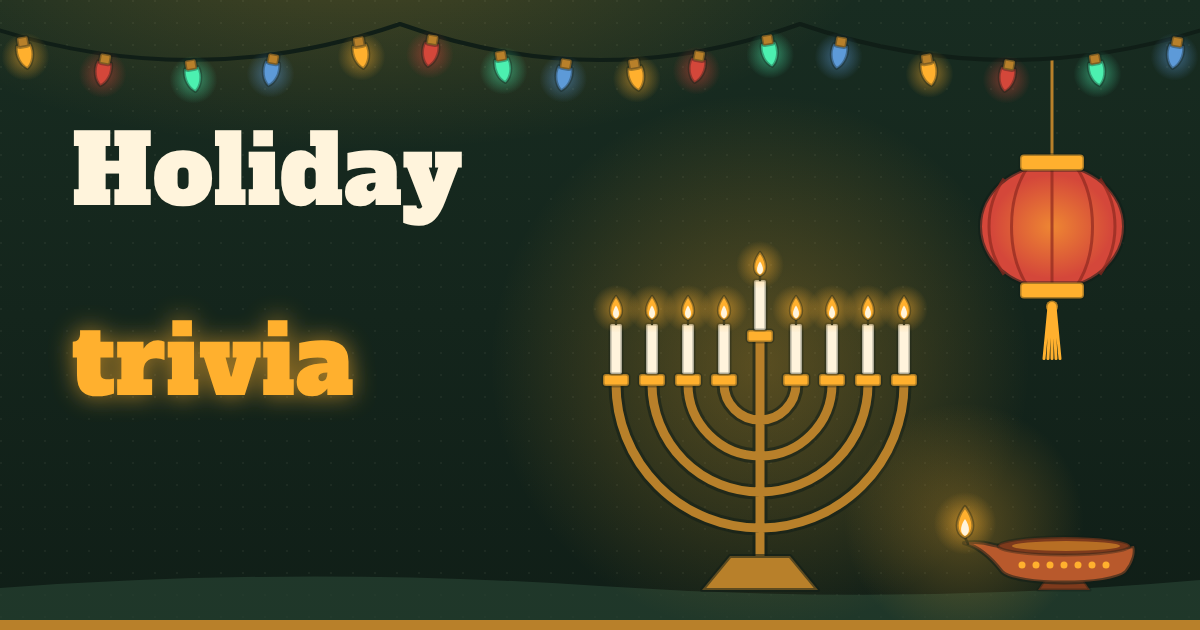
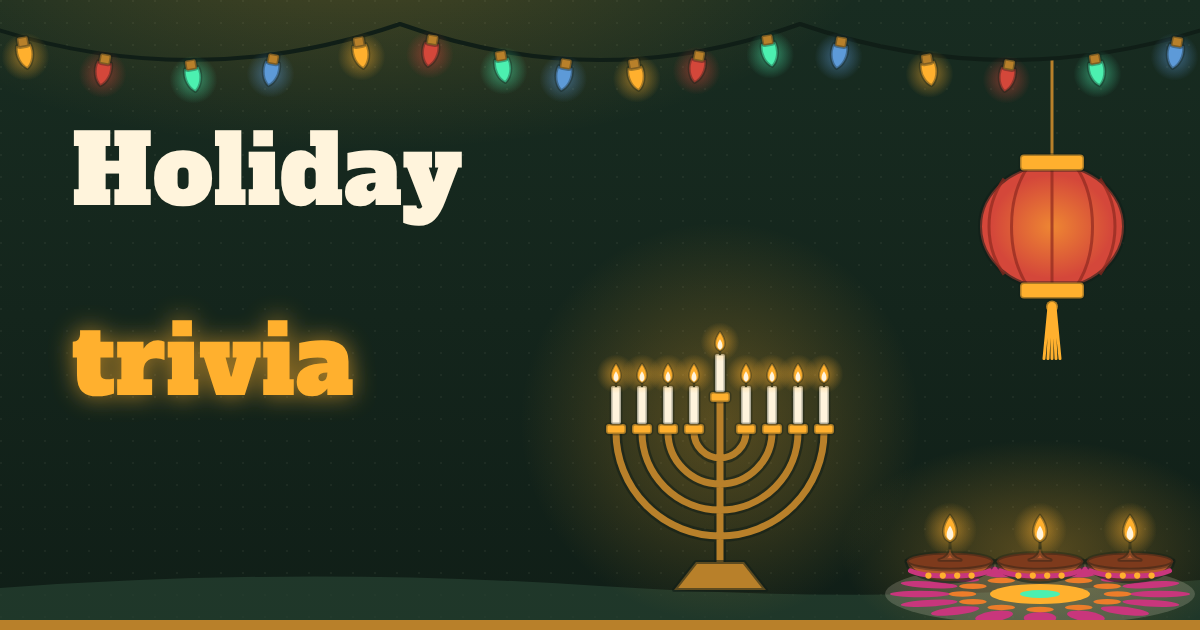
Holiday trivia picture: diyas on a rangoli, smaller menorah
Paul's review: the single clay lamp read as part of Hanukkah, and the
menorah dominated the picture. The diya becomes three painted diyas on a
rangoli, set apart from the menorah, and the menorah is about a quarter
smaller. The share picture is re-rendered from the same scene.

Claude-Session: https://claude.ai/code/session_01Rj3at1ZTZ2Hrw8opPLQ5A8

Changed region(s): [[0.4933, 0.3016, 1.0, 0.9952]]

diff --git a/src/content/quizzes/scenes/holiday-trivia.ts b/src/content/quizzes/scenes/holiday-trivia.ts
@@ -2,9 +2,10 @@ import type { AnimatedScene } from "./index";
 
 /**
  * Holiday trivia: a lit Hanukkah menorah (a hanukkiah: eight candles in a row
- * and the shamash, the helper candle, standing higher in the middle), a clay
- * diya oil lamp, a red paper lantern hanging from a string of lights across
- * the top, and a hop running through "trivia". The flames flicker, the lantern
+ * and the shamash, the helper candle, standing higher in the middle), a row of
+ * three painted diyas on a rangoli for Diwali, set apart from the menorah so
+ * they read as their own festival, a red paper lantern hanging from a string
+ * of lights across the top, and a hop running through "trivia". The flames flicker, the lantern
  * sways gently and the lights twinkle. No figures, no symbols beyond the lamps.
  *
  * Coordinates are in the 1200x630 viewBox. Each moving shape is drawn at its
@@ -15,7 +16,7 @@ import type { AnimatedScene } from "./index";
 
 const ROOT = ".quiz-scene-holiday-trivia";
 
-/** Where the menorah and the diya stand. */
+/** Where the menorah and the diyas stand. */
 const GROUND = 590;
 
 /** "Holiday trivia" in the display face at 96px: where each line starts, and where each letter of "trivia" starts, then where the word ends (measured in Chromium with src/fonts/alfa-slab-one). */
@@ -25,15 +26,15 @@ const LINE_2_Y = 395;
 const TRIVIA_ADVANCES = [0, 43.3, 93.9, 127.1, 189.6, 222.8, 281.9];
 
 /** The menorah: its middle, the height of the eight cups, how far apart the candles are, and how much higher the shamash's cup is. */
-const MENORAH_X = 760;
-const CUP_Y = 384;
-const SPACING = 36;
-const SHAMASH_RISE = 44;
-const CANDLE_H = 50;
+const MENORAH_X = 720;
+const CUP_Y = 432;
+const SPACING = 26;
+const SHAMASH_RISE = 32;
+const CANDLE_H = 38;
 
-/** The diya: the middle of its bowl on the ground, and the tip of its spout, where the wick burns. */
-const DIYA_X = 1064;
-const SPOUT: [number, number] = [-100, -47];
+/** The rangoli's middle on the ground, and where the three diyas stand on it. */
+const RANGOLI_X = 1040;
+const DIYAS_X = [950, 1040, 1130];
 
 /** The string of lights: where it is hooked up, and how low each swag hangs (the control point's y). */
 const HOOKS = [-20, 400, 800, 1220];
@@ -55,11 +56,13 @@ const PAINT = {
   "c-mint": "fill: var(--mint)",
   "c-deep": "fill: var(--stage-deep)",
   "c-panel": "fill: var(--stage-panel); fill-opacity: 0.7",
-  // Not site tokens: the lantern's red paper, the diya's fired clay, and the
-  // blue and red of the bulbs.
+  // Not site tokens: the lantern's red paper, the diyas' fired clay, the
+  // rangoli's magenta and orange, and the blue and red of the bulbs.
   "c-red": "fill: #d4473a",
   "c-clay": "fill: #b8592c",
   "c-clay-dark": "fill: #7d3a1c",
+  "c-magenta": "fill: #c8367c",
+  "c-orange": "fill: #ec7d2a",
   "c-blue": "fill: #5d9ad8",
 };
 type Paint = keyof typeof PAINT;
@@ -134,20 +137,20 @@ function menorah(): string {
       return `M ${MENORAH_X - r} ${CUP_Y} A ${r} ${r} 0 0 0 ${MENORAH_X + r} ${CUP_Y}`;
     })
     .join(" ");
-  const stem = `M ${MENORAH_X} ${CUP_Y - SHAMASH_RISE} L ${MENORAH_X} ${GROUND - 30}`;
+  const stem = `M ${MENORAH_X} ${CUP_Y - SHAMASH_RISE} L ${MENORAH_X} ${GROUND - 26}`;
   const cups = candleSpots()
-    .map(([x, y]) => `<rect x="${x - 13}" y="${y - 10}" width="26" height="12" rx="3" class="c-gold ink-soft"/>`)
+    .map(([x, y]) => `<rect x="${x - 10}" y="${y - 8}" width="20" height="10" rx="3" class="c-gold ink-soft"/>`)
     .join("");
   const candles = candleSpots()
     .map(
       ([x, y]) =>
-        `<rect x="${x - 6}" y="${y - 10 - CANDLE_H}" width="12" height="${CANDLE_H}" rx="2" class="candle c-fg ink-soft"/><path d="M ${x} ${y - 10 - CANDLE_H} L ${x} ${y - 16 - CANDLE_H}" class="wick"/>`,
+        `<rect x="${x - 5}" y="${y - 8 - CANDLE_H}" width="10" height="${CANDLE_H}" rx="2" class="candle c-fg ink-soft"/><path d="M ${x} ${y - 8 - CANDLE_H} L ${x} ${y - 13 - CANDLE_H}" class="wick"/>`,
     )
     .join("");
-  return `<circle cx="${MENORAH_X}" cy="${CUP_Y - 20}" r="270" fill="url(#hd-halo)"/>
+  return `<circle cx="${MENORAH_X}" cy="${CUP_Y - 10}" r="200" fill="url(#hd-halo)"/>
   <path d="${arms} ${stem}" class="metal-edge"/>
   <path d="${arms} ${stem}" class="metal"/>
-  <path d="M ${MENORAH_X - 58} ${GROUND} L ${MENORAH_X - 30} ${GROUND - 34} L ${MENORAH_X + 30} ${GROUND - 34} L ${MENORAH_X + 58} ${GROUND} Z" class="c-brass ink"/>
+  <path d="M ${MENORAH_X - 46} ${GROUND} L ${MENORAH_X - 24} ${GROUND - 28} L ${MENORAH_X + 24} ${GROUND - 28} L ${MENORAH_X + 46} ${GROUND} Z" class="c-brass ink"/>
   ${cups}
   ${candles}`;
 }
@@ -157,28 +160,58 @@ function menorahFlames(): string {
   return candleSpots()
     .map(
       ([x, y], i) =>
-        `<g transform="translate(${x} ${y - 14 - CANDLE_H})"><g class="flicker menorah-flame" style="--dur:${f(1.1 + ((i * 0.37) % 0.6))}s;--delay:${f((i * 0.23) % 1)}s">${flame(0.8)}</g></g>`,
+        `<g transform="translate(${x} ${y - 11 - CANDLE_H})"><g class="flicker menorah-flame" style="--dur:${f(1.1 + ((i * 0.37) % 0.6))}s;--delay:${f((i * 0.23) % 1)}s">${flame(0.65)}</g></g>`,
     )
     .join("");
 }
 
-/** The diya, without its flame: a clay bowl with a pinched spout, oil inside, a painted band and a little foot. */
-function diya(): string {
-  const dots = [-42, -28, -14, 0, 14, 28, 42].map((x) => `<circle cx="${x}" cy="-25" r="3.5" class="c-gold"/>`).join("");
-  return `<g transform="translate(${DIYA_X} ${GROUND})">
-    <circle cx="${SPOUT[0]}" cy="${SPOUT[1] - 20}" r="120" fill="url(#hd-halo)"/>
-    <path d="M -26 0 L -18 -12 L 18 -12 L 26 0 Z" class="c-clay-dark ink-soft"/>
-    <path d="M ${SPOUT[0]} ${SPOUT[1]} C -88 -44, -76 -36, -62 -18 C -48 -4, 48 -4, 62 -18 C 70 -28, 72 -38, 70 -44 C 30 -38, -40 -38, -70 -45 C -80 -48, -90 -49, ${SPOUT[0]} ${SPOUT[1]} Z" class="c-clay ink"/>
-    <ellipse cx="0" cy="-44" rx="66" ry="9" class="c-clay-dark ink-soft"/>
-    <ellipse cx="2" cy="-44" rx="54" ry="5" class="c-gold" opacity="0.45"/>
-    ${dots}
-    <path d="M ${SPOUT[0] + 4} ${SPOUT[1] + 1} L ${SPOUT[0] + 1} ${SPOUT[1] - 6}" class="wick"/>
+/**
+ * The rangoli: a ring of magenta petals, a ring of orange dots and a gold
+ * middle, drawn round and then flattened onto the ground.
+ */
+function rangoli(): string {
+  const petals = Array.from({ length: 16 }, (_, i) => {
+    const deg = i * 22.5;
+    return `<ellipse cx="0" cy="-96" rx="13" ry="24" transform="rotate(${deg})" class="c-magenta"/>`;
+  }).join("");
+  const dots = Array.from({ length: 12 }, (_, i) => {
+    const a = (i * 30 * Math.PI) / 180;
+    return `<circle cx="${f(Math.cos(a) * 62)}" cy="${f(Math.sin(a) * 62)}" r="11" class="c-orange"/>`;
+  }).join("");
+  return `<g transform="translate(${RANGOLI_X} ${GROUND + 4}) scale(1.25 0.25)">
+    <circle r="124" class="c-fg" opacity="0.18"/>
+    ${petals}${dots}
+    <circle r="40" class="c-gold"/>
+    <circle r="16" class="c-mint"/>
   </g>`;
 }
 
-/** The diya's flame, at the tip of its spout. */
-function diyaFlame(): string {
-  return `<g transform="translate(${DIYA_X + SPOUT[0] + 1} ${GROUND + SPOUT[1] - 5})"><g class="flicker diya-flame" style="--dur:1.4s;--delay:0.2s">${flame(1.05)}</g></g>`;
+/** One diya without its flame, standing at x: a clay bowl with its lip pinched up in front, oil inside, and a painted band. */
+function diya(x: number): string {
+  const dots = [-18, -6, 6, 18].map((dx) => `<circle cx="${dx}" cy="-12" r="2.6" class="c-gold"/>`).join("");
+  return `<g transform="translate(${x} ${GROUND}) scale(1.2)">
+    <path d="M -36 -24 C -32 -2, 32 -2, 36 -24 Z" class="c-clay ink"/>
+    <path d="M -33 -16 C -20 -10, 20 -10, 33 -16" class="paint"/>
+    ${dots}
+    <ellipse cx="0" cy="-24" rx="36" ry="7" class="c-clay-dark ink-soft"/>
+    <path d="M -9 -25 Q 0 -27 0 -36 Q 0 -27 9 -25 Z" class="c-clay ink-soft"/>
+    <path d="M 0 -35 L 0 -40" class="wick"/>
+  </g>`;
+}
+
+/** The diyas, on their rangoli, with the glow they cast. */
+function diyas(): string {
+  return `<ellipse cx="${RANGOLI_X}" cy="${GROUND - 40}" rx="200" ry="110" fill="url(#hd-halo)"/>
+  ${rangoli()}
+  ${DIYAS_X.map(diya).join("")}`;
+}
+
+/** The three diyas' flames, one at each lip. */
+function diyaFlames(): string {
+  return DIYAS_X.map(
+    (x, i) =>
+      `<g transform="translate(${x} ${GROUND - 48})"><g class="flicker diya-flame" style="--dur:${f(1.3 + i * 0.17)}s;--delay:${f(0.2 + i * 0.31)}s">${flame(0.9)}</g></g>`,
+  ).join("");
 }
 
 /** The red paper lantern on its cord, hanging from the string; it sways from the point where it hangs. */
@@ -213,7 +246,7 @@ function words(): string {
   ${letters.join("")}`;
 }
 
-/** The still layer: the room, the ground, the menorah, the diya and the glow. Nothing here moves. */
+/** The still layer: the room, the ground, the menorah, the diyas and the glow. Nothing here moves. */
 const back = `<defs>
   <linearGradient id="hd-sky" x1="0" y1="0" x2="0" y2="1">
     <stop offset="0" style="stop-color:var(--stage)"/>
@@ -239,7 +272,7 @@ const back = `<defs>
 <rect width="1200" height="630" fill="url(#hd-dots)"/>
 <path d="M 0 588 Q 300 566 600 586 T 1200 580 L 1200 630 L 0 630 Z" class="c-panel"/>
 ${menorah()}
-${diya()}
+${diyas()}
 ${triviaGlow()}
 <rect y="620" width="1200" height="10" class="c-brass"/>`;
 
@@ -259,7 +292,7 @@ const front = `<defs>
 ${lantern()}
 ${lights()}
 ${menorahFlames()}
-${diyaFlame()}
+${diyaFlames()}
 ${words()}`;
 
 const css = `
@@ -270,9 +303,10 @@ ${ROOT} .wire { fill: none; stroke: var(--stage-deep); stroke-width: 4; stroke-l
 ${ROOT} .cord { fill: none; stroke: var(--brass); stroke-width: 3; }
 ${ROOT} .rib { fill: none; stroke: #8f2a20; stroke-opacity: 0.7; stroke-width: 3; }
 ${ROOT} .tassel { fill: none; stroke: var(--gold); stroke-width: 3; stroke-linecap: round; }
+${ROOT} .paint { fill: none; stroke: #c8367c; stroke-width: 4; stroke-linecap: round; }
 ${ROOT} .wick { fill: none; stroke: var(--stage-deep); stroke-width: 2.5; stroke-linecap: round; }
-${ROOT} .metal { fill: none; stroke: var(--brass); stroke-width: 9; stroke-linecap: round; }
-${ROOT} .metal-edge { fill: none; stroke: var(--stage-deep); stroke-opacity: 0.55; stroke-width: 15; stroke-linecap: round; }
+${ROOT} .metal { fill: none; stroke: var(--brass); stroke-width: 7; stroke-linecap: round; }
+${ROOT} .metal-edge { fill: none; stroke: var(--stage-deep); stroke-opacity: 0.55; stroke-width: 12; stroke-linecap: round; }
 ${ROOT} .word { font-family: var(--font-display), "Rockwell Extra Bold", Georgia, serif; font-size: 96px; }
 
 ${ROOT} .twinkle { animation: hd-twinkle 2.8s ease-in-out calc(var(--start) + var(--delay)) infinite; }

diff --git a/e2e/quiz-holiday-trivia.spec.ts b/e2e/quiz-holiday-trivia.spec.ts
@@ -266,11 +266,11 @@ test.describe("/quizzes/holiday-trivia, the moving picture", () => {
     expect(await hero.evaluate((el) => getComputedStyle(el).aspectRatio)).toBe("1200 / 630");
 
     // 16 bulbs on the string across the top, nine menorah flames and the
-    // diya's, the lantern, and 6 letters.
+    // three diyas', the lantern, and 6 letters.
     const names = await sceneAnimations(page);
     const count = (name: string) => names.filter((n) => n === name).length;
     expect(count("hd-twinkle")).toBe(16);
-    expect(count("hd-flicker")).toBe(10);
+    expect(count("hd-flicker")).toBe(12);
     expect(count("hd-swing")).toBe(1);
     expect(count("hd-hop")).toBe(6);
     const before = await lanternTransform(page);
